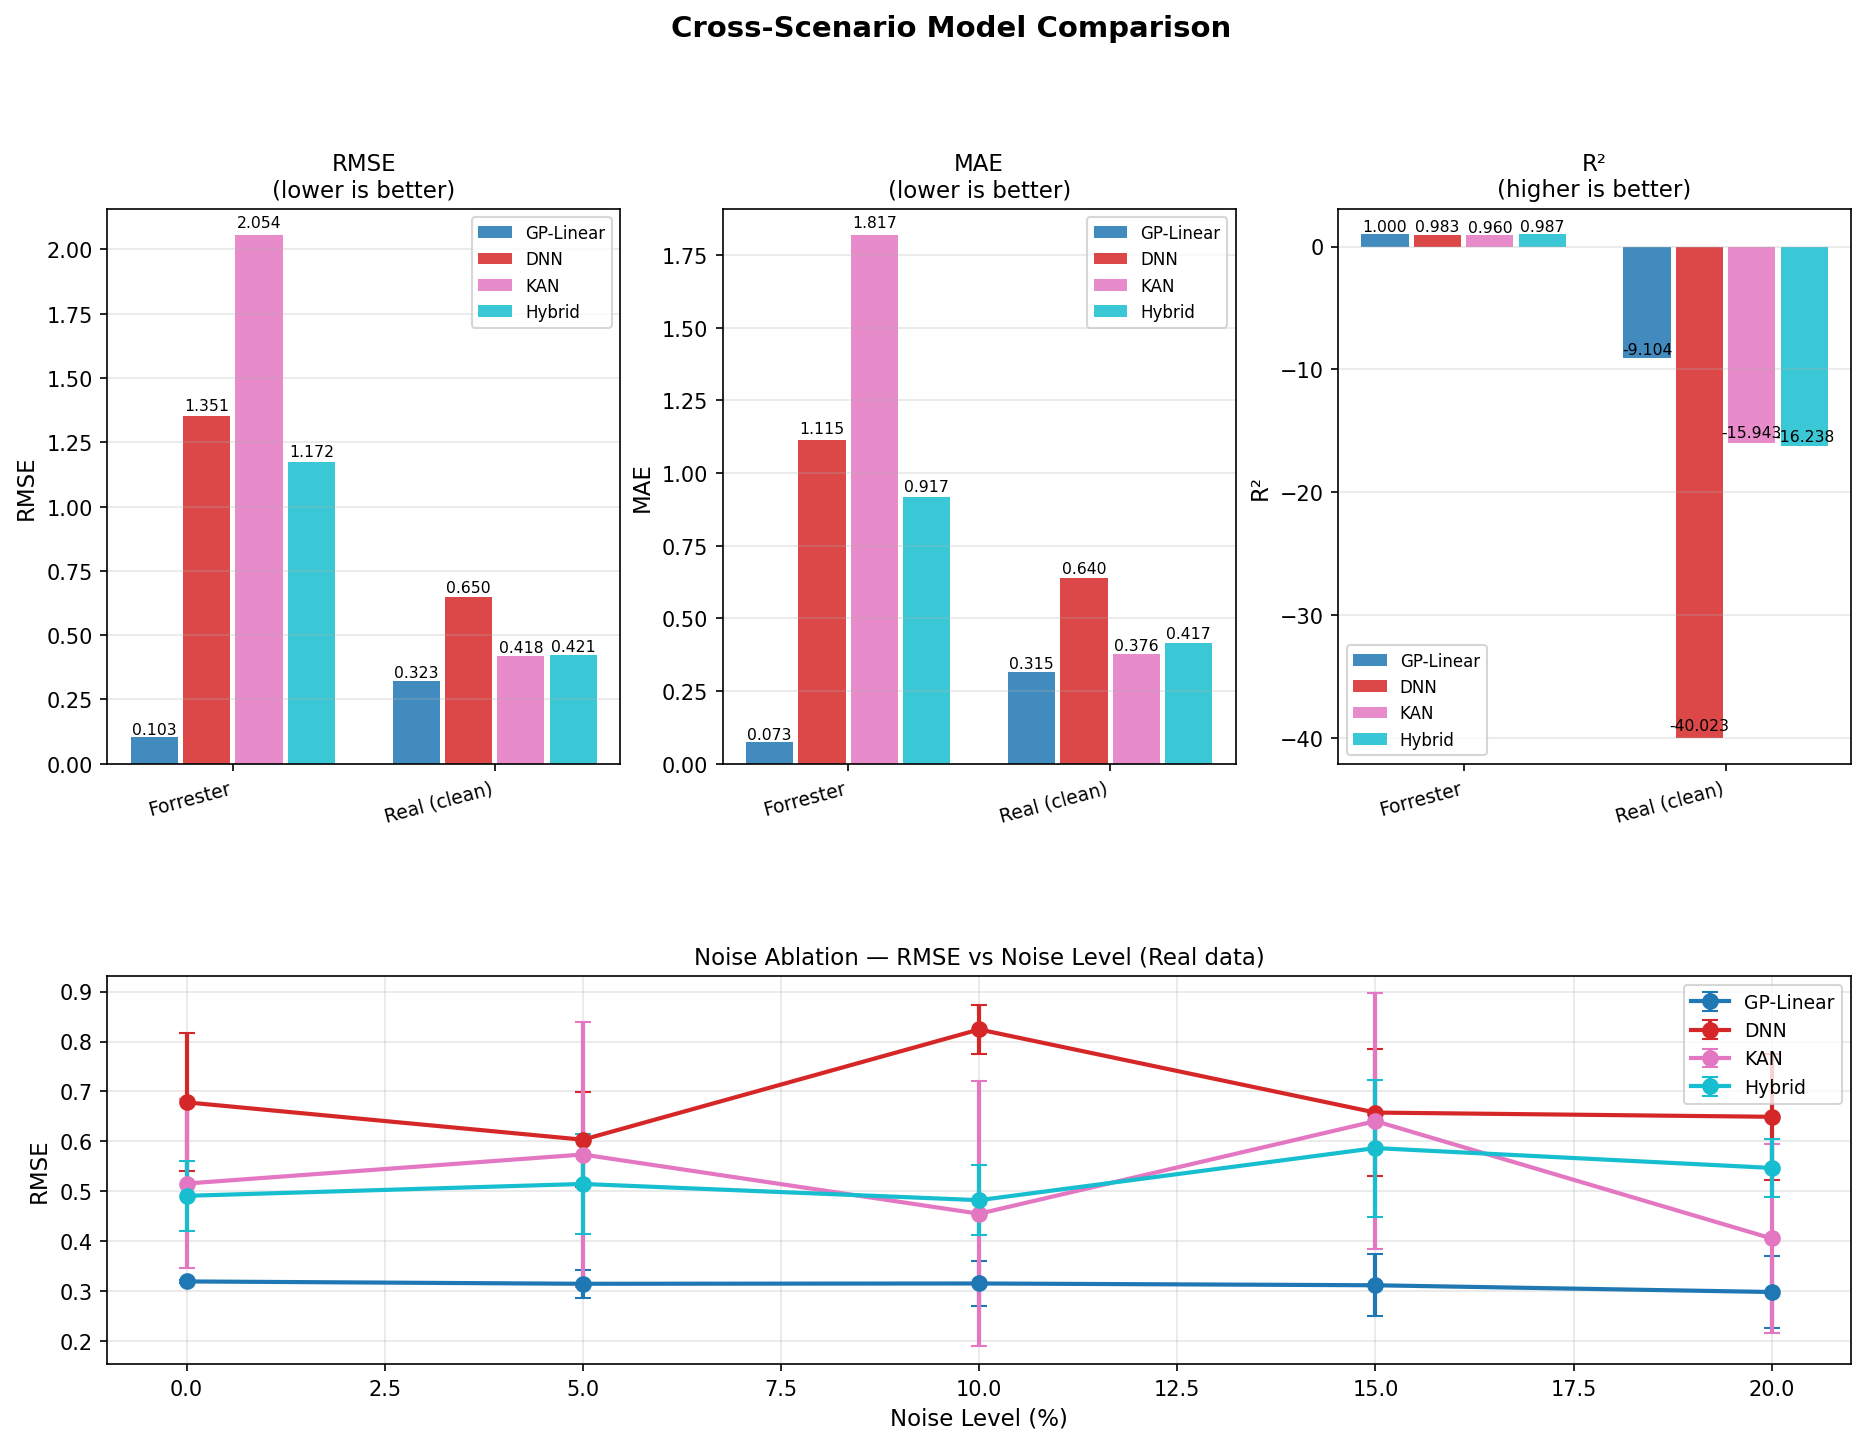
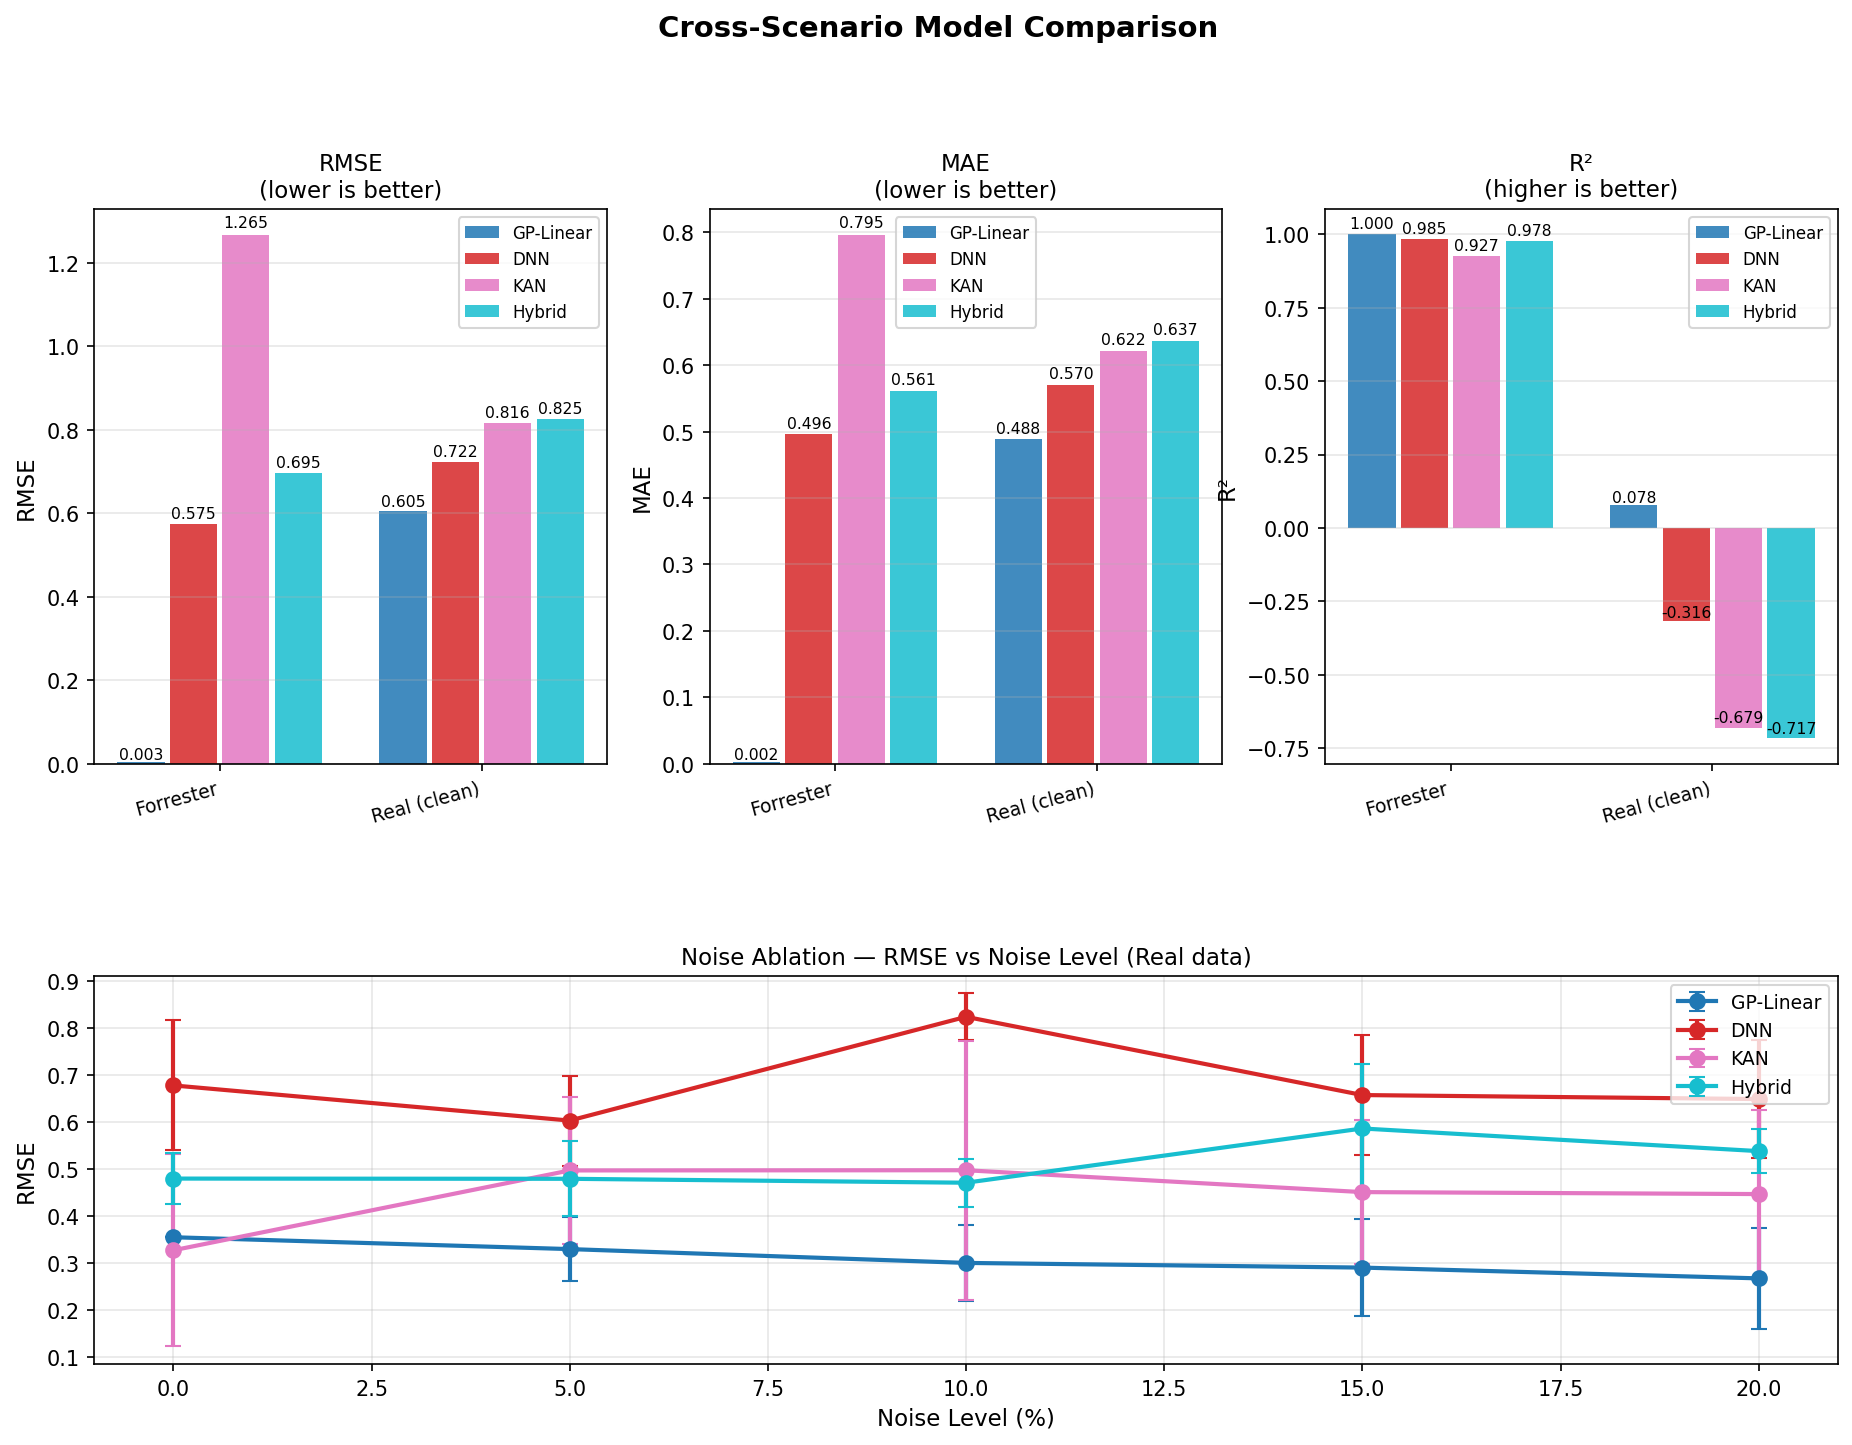
a run

diff --git a/results/table_scenarios.tex b/results/table_scenarios.tex
@@ -1,21 +1,21 @@
 % Requires \usepackage{booktabs,multirow}
 \begin{table}[ht]
-\caption{LOO-CV metrics across all comparison scenarios ($n=2$ folds per dataset).}
+\caption{LOO-CV metrics across all comparison scenarios ($n=12$ folds per dataset).}
 \label{tab:scenario_comparison}
 \begin{tabular}{llrrrrr}
 \toprule
  &  & RMSE & MAE & R² & NLL & Cov.\ 90\% \\
 Scenario & Model &  &  &  &  &  \\
 \midrule
-\multirow[t]{4}{*}{Forrester} & GP-Linear & 0.1034 & 0.0732 & 0.9999 & -2.3433 & 100.00% \\
- & DNN & 1.3510 & 1.1145 & 0.9826 & 4.0167 & 0.00% \\
- & KAN & 2.0544 & 1.8171 & 0.9598 & 9.9921 & 0.00% \\
- & Hybrid & 1.1724 & 0.9171 & 0.9869 & 11.2914 & 50.00% \\
+\multirow[t]{4}{*}{Forrester} & GP-Linear & 0.0033 & 0.0020 & 1.0000 & -4.5319 & 100.00% \\
+ & DNN & 0.5745 & 0.4958 & 0.9849 & 6.3798 & 16.67% \\
+ & KAN & 1.2652 & 0.7954 & 0.9270 & 4.1857 & 58.33% \\
+ & Hybrid & 0.6953 & 0.5615 & 0.9779 & 16.2790 & 8.33% \\
 \cline{1-7}
-\multirow[t]{4}{*}{Real (clean)} & GP-Linear & 0.3226 & 0.3147 & -9.1043 & 0.4108 & 100.00% \\
- & DNN & 0.6500 & 0.6398 & -40.0234 & 247.2861 & 0.00% \\
- & KAN & 0.4177 & 0.3764 & -15.9434 & 3.4846 & 50.00% \\
- & Hybrid & 0.4214 & 0.4165 & -16.2384 & 17.1918 & 0.00% \\
+\multirow[t]{4}{*}{Real (clean)} & GP-Linear & 0.6046 & 0.4884 & 0.0776 & 1.4227 & 83.33% \\
+ & DNN & 0.7221 & 0.5702 & -0.3160 & 25.7088 & 41.67% \\
+ & KAN & 0.8158 & 0.6215 & -0.6794 & 1.7151 & 66.67% \\
+ & Hybrid & 0.8248 & 0.6366 & -0.7168 & 16.5718 & 25.00% \\
 \cline{1-7}
 \bottomrule
 \end{tabular}

diff --git a/results/table_noise_ablation.tex b/results/table_noise_ablation.tex
@@ -7,10 +7,10 @@
  & 0\% & 5\% & 10\% & 15\% & 20\% \\
 Model &  &  &  &  &  \\
 \midrule
-GP-Linear & 0.3198 $\pm$ 0.0036 & 0.3151 $\pm$ 0.0286 & 0.3158 $\pm$ 0.0458 & 0.3122 $\pm$ 0.0616 & 0.2987 $\pm$ 0.0723 \\
-DNN & 0.6783 $\pm$ 0.1383 & 0.6035 $\pm$ 0.0956 & 0.8242 $\pm$ 0.0496 & 0.6578 $\pm$ 0.1277 & 0.6493 $\pm$ 0.1257 \\
-KAN & 0.5158 $\pm$ 0.1695 & 0.5739 $\pm$ 0.2660 & 0.4553 $\pm$ 0.2656 & 0.6407 $\pm$ 0.2554 & 0.4058 $\pm$ 0.1889 \\
-Hybrid & 0.4911 $\pm$ 0.0698 & 0.5149 $\pm$ 0.1000 & 0.4825 $\pm$ 0.0701 & 0.5867 $\pm$ 0.1369 & 0.5470 $\pm$ 0.0578 \\
+GP-Linear & 0.3554 $\pm$ 0.0000 & 0.3302 $\pm$ 0.0674 & 0.3008 $\pm$ 0.0809 & 0.2909 $\pm$ 0.1027 & 0.2680 $\pm$ 0.1071 \\
+DNN & 0.6783 $\pm$ 0.1383 & 0.6035 $\pm$ 0.0956 & 0.8242 $\pm$ 0.0496 & 0.6578 $\pm$ 0.1277 & 0.6493 $\pm$ 0.1256 \\
+KAN & 0.3277 $\pm$ 0.2045 & 0.4975 $\pm$ 0.1559 & 0.4979 $\pm$ 0.2753 & 0.4514 $\pm$ 0.1529 & 0.4472 $\pm$ 0.1781 \\
+Hybrid & 0.4802 $\pm$ 0.0547 & 0.4797 $\pm$ 0.0798 & 0.4714 $\pm$ 0.0507 & 0.5867 $\pm$ 0.1369 & 0.5386 $\pm$ 0.0464 \\
 \bottomrule
 \end{tabular}
 \end{table}
